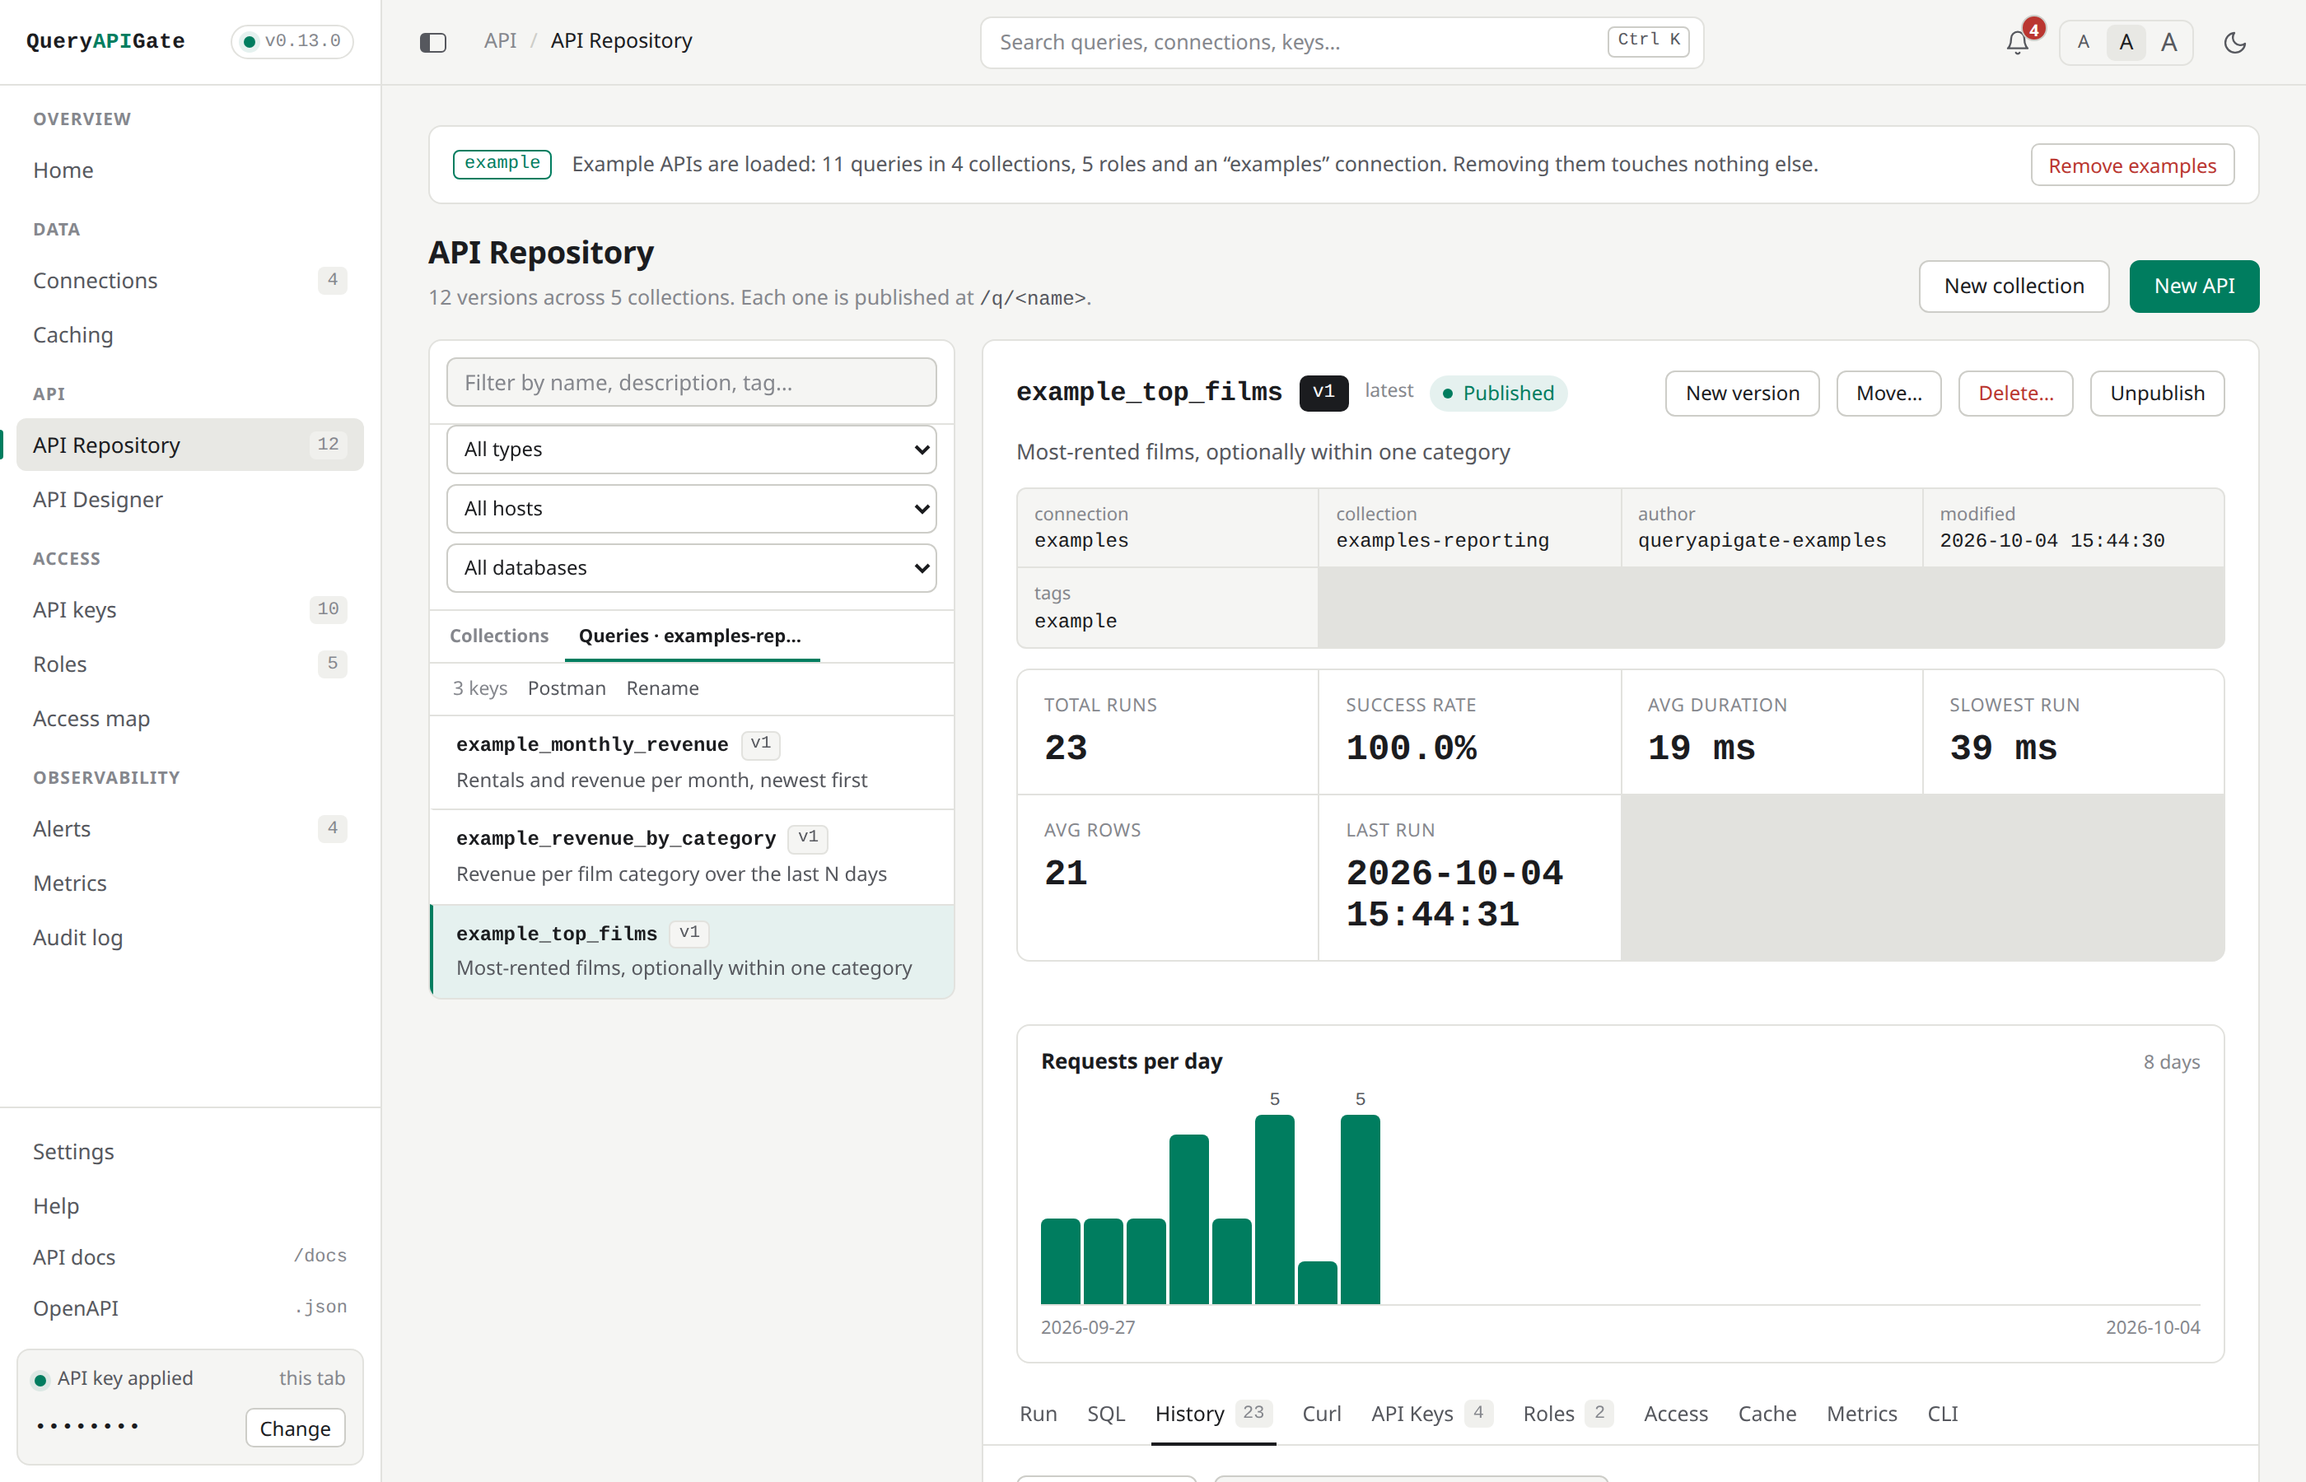
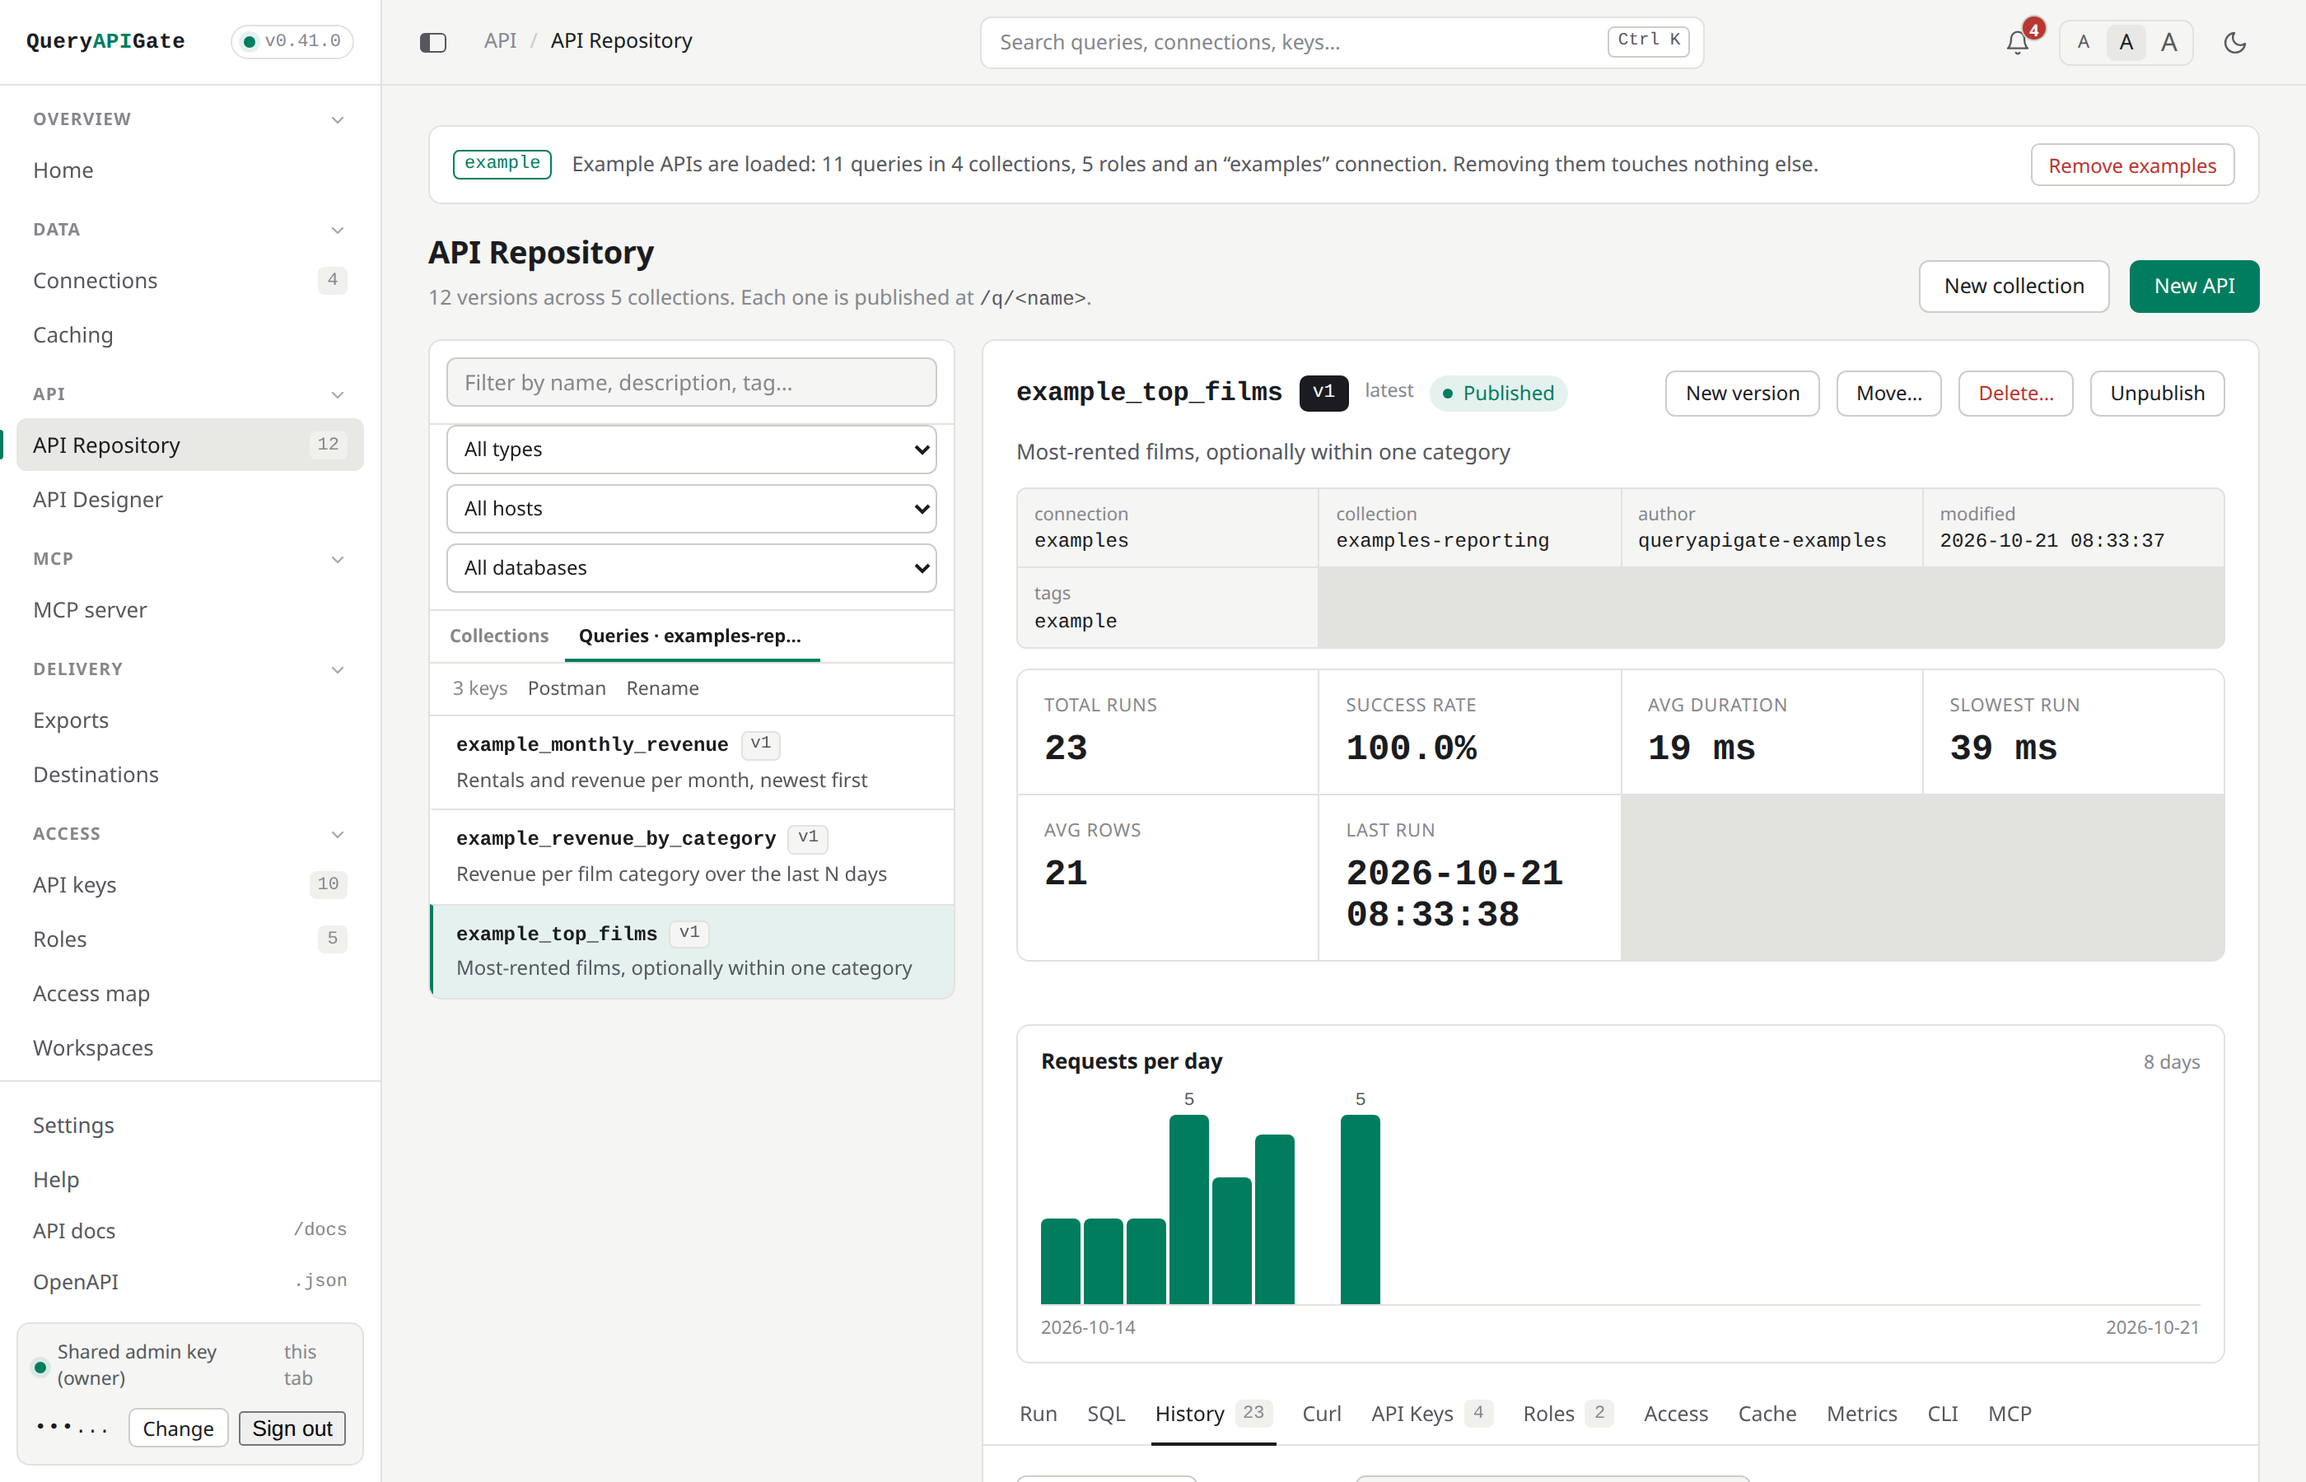
docs: position MCP as a pillar, and refresh the Console screenshots (#89)

diff --git a/documentation/SCREENSHOTS.md b/documentation/SCREENSHOTS.md
@@ -31,6 +31,15 @@ SQL editor, the demo video and the architecture.
 </table>
 
 <p align="center">
+  <a href="https://raw.githubusercontent.com/AnanthaRajuC/QueryAPIGate/main/documentation/screenshots/mcp.png">
+    <img src="https://raw.githubusercontent.com/AnanthaRajuC/QueryAPIGate/main/documentation/screenshots/mcp.png"
+         alt="The MCP server screen: your saved queries listed as tools an AI agent can call over MCP, each marked read-only with its parameters and description and a 30-day MCP-activity column; above the list, the connect-a-client config snippet with the MCP server URL and X-API-Key header, and a reachability check" width="820">
+  </a>
+  <br>
+  <sub>MCP server: your saved queries as governed tools for AI agents - read-only by default, with the connect snippet and a reachability check, the same identity, masking and audit as every other caller.</sub>
+</p>
+
+<p align="center">
   <a href="https://raw.githubusercontent.com/AnanthaRajuC/QueryAPIGate/main/documentation/screenshots/workspaces.png">
     <img src="https://raw.githubusercontent.com/AnanthaRajuC/QueryAPIGate/main/documentation/screenshots/workspaces.png"
          alt="The Workspaces screen (experimental): three workspaces - catalogue, default (this tab's) and payments - with their descriptions, member counts and Work here, edit and remove actions; below, the members of payments, bea as owner and dmitri as developer, each role changeable, and a form to add a member. The sidebar's workspace switcher sits under the wordmark" width="820">
@@ -43,7 +52,7 @@ SQL editor, the demo video and the architecture.
 <tr>
 <td width="25%">
 <a href="https://raw.githubusercontent.com/AnanthaRajuC/QueryAPIGate/main/documentation/screenshots/connections.png">
-<img src="https://raw.githubusercontent.com/AnanthaRajuC/QueryAPIGate/main/documentation/screenshots/connections.png" alt="Connections screen with All/Active/Inactive/Deleted tabs, listing ClickHouse, MySQL, PostgreSQL and SQLite connections with their status, each connection's live usage (queries run, failures, average latency), and Query, edit and delete actions">
+<img src="https://raw.githubusercontent.com/AnanthaRajuC/QueryAPIGate/main/documentation/screenshots/connections.png" alt="Connections screen with All/Active/Inactive/Deleted tabs, listing ClickHouse, MySQL, PostgreSQL and SQLite connections with their status, each connection's live usage (queries run, failures, average latency), a 30-day activity sparkline per connection, and Query, edit and delete actions">
 </a>
 <br><sub>Manage connections across every supported database, with live usage per connection</sub>
 </td>
@@ -55,13 +64,13 @@ SQL editor, the demo video and the architecture.
 </td>
 <td width="25%">
 <a href="https://raw.githubusercontent.com/AnanthaRajuC/QueryAPIGate/main/documentation/screenshots/api-keys.png">
-<img src="https://raw.githubusercontent.com/AnanthaRajuC/QueryAPIGate/main/documentation/screenshots/api-keys.png" alt="API keys screen showing keys created from roles and scoped to a collection (shown as a dashed name/ tag), an expiring partner key, per-key rate limits, and each key's last-used time and live usage">
+<img src="https://raw.githubusercontent.com/AnanthaRajuC/QueryAPIGate/main/documentation/screenshots/api-keys.png" alt="API keys screen showing keys created from roles and scoped to a collection (shown as a dashed name/ tag), an expiring partner key, per-key rate limits, each key's last-used time and live usage, and a 30-day activity sparkline per key">
 </a>
 <br><sub>Per-key permissions: connections, specific saved queries, expiry, rate limits - and what each key has actually done</sub>
 </td>
 <td width="25%">
 <a href="https://raw.githubusercontent.com/AnanthaRajuC/QueryAPIGate/main/documentation/screenshots/roles.png">
-<img src="https://raw.githubusercontent.com/AnanthaRajuC/QueryAPIGate/main/documentation/screenshots/roles.png" alt="Roles screen listing reusable permission templates - connections, read/write access, rate limit and IP allowlisting - with a New key from this shortcut">
+<img src="https://raw.githubusercontent.com/AnanthaRajuC/QueryAPIGate/main/documentation/screenshots/roles.png" alt="Roles screen listing reusable permission templates - connections, read/write access, rate limit and IP allowlisting - with a 30-day activity sparkline for the keys created from each role and a New key from this shortcut">
 </a>
 <br><sub>Named roles: a reusable grant template, copied onto a key once at creation</sub>
 </td>
@@ -101,7 +110,7 @@ SQL editor, the demo video and the architecture.
 </td>
 <td width="50%">
 <a href="https://raw.githubusercontent.com/AnanthaRajuC/QueryAPIGate/main/documentation/screenshots/caching.png">
-<img src="https://raw.githubusercontent.com/AnanthaRajuC/QueryAPIGate/main/documentation/screenshots/caching.png" alt="Caching screen: response cache backend, entry count, hit rate, hits and misses, and the list of saved queries with a cache_ttl set">
+<img src="https://raw.githubusercontent.com/AnanthaRajuC/QueryAPIGate/main/documentation/screenshots/caching.png" alt="Caching screen: response cache backend, entry count, hit rate, hits and misses, and the list of saved queries with a cache_ttl set, each with a 30-day activity sparkline">
 </a>
 <br><sub>Caching: live hit rate for the response cache backing every saved query's <code>cache_ttl</code></sub>
 </td>

diff --git a/README.md b/README.md
@@ -9,7 +9,7 @@
 [![OpenSSF Scorecard](https://api.scorecard.dev/projects/github.com/AnanthaRajuC/QueryAPIGate/badge)](https://scorecard.dev/viewer/?uri=github.com/AnanthaRajuC/QueryAPIGate)
 [![SLSA 2](https://slsa.dev/images/gh-badge-level2.svg)](https://github.com/AnanthaRajuC/QueryAPIGate/blob/main/SECURITY.md#slsa-level)
 
-### Turn SQL queries into secure, governed REST APIs.
+### Turn SQL into secure, governed REST APIs - and MCP tools for AI agents.
 
 [**Full documentation**](https://AnanthaRajuC.github.io/QueryAPIGate/)
 
@@ -88,6 +88,11 @@ backend service written around each query. QueryAPIGate makes the query itself t
 a versioned endpoint with typed parameters, governed by who may call it, how often and what they may see - and the same
 query is an MCP tool for AI agents, a live event stream and a scheduled export.
 
+That MCP surface is a reason in itself: it's how you let an AI agent query production data without handing it a
+database connection. The agent sees only governed tools, ad-hoc SQL over MCP is always read-only, writes wait for a
+person's approval, and the same masking, limits and audit apply - the limits live in the gateway, where no prompt can
+talk its way around them. One governed core, two front doors that matter most: REST for your apps, MCP for your agents.
+
 It doesn't replace an application backend; it removes the boilerplate when the requirement is "expose this query
 safely". Use cases, how it compares to PostgREST, Hasura and others, and the thinking behind it:
 [why QueryAPIGate](https://github.com/AnanthaRajuC/QueryAPIGate/blob/main/documentation/WHY.md).
@@ -98,14 +103,15 @@ safely". Use cases, how it compares to PostgREST, Hasura and others, and the thi
   injection-safe parameters, drafts and publishing, run history.
 - **[Scoped API keys, roles and collections](https://github.com/AnanthaRajuC/QueryAPIGate/blob/main/documentation/API.md#authentication-and-permissions)** - per
   connection, per query or per collection; expiry, IP allow-lists, rate limits, quotas, table allow-lists.
+- **[A governed MCP server for AI agents](https://github.com/AnanthaRajuC/QueryAPIGate/blob/main/documentation/MCP.md)** - saved queries as self-describing tools,
+  read-only ad-hoc SQL, masking-aware schema discovery, OAuth sign-in, and write tools that wait for a person's
+  approval - the same grants, masking and audit as every other caller.
 - **[Named administrators and SSO](https://github.com/AnanthaRajuC/QueryAPIGate/blob/main/documentation/API.md#administrators-and-admin-roles)** - admin roles and
   tokens, Console sign-in through your identity provider, signed-in users' JWTs.
 - **[Workspaces](https://github.com/AnanthaRajuC/QueryAPIGate/blob/main/documentation/API.md#workspaces)** (experimental) - several teams on one server,
   each running its own connections, queries and keys, and administering nothing of another's.
 - **[Column masking](https://github.com/AnanthaRajuC/QueryAPIGate/blob/main/documentation/API.md#column-masking)** - hash, mask or drop what a caller mustn't see, traced
   through the SQL to the source column.
-- **[An MCP server for AI agents](https://github.com/AnanthaRajuC/QueryAPIGate/blob/main/documentation/MCP.md)** - saved queries as tools, OAuth sign-in, write tools that
-  wait for a person's approval.
 - **[Eight database types, and files](https://github.com/AnanthaRajuC/QueryAPIGate/blob/main/documentation/DATABASE_CONNECTION_CONFIGURATION.md#support-matrix)** -
   PostgreSQL, MySQL, SQLite, DuckDB, ClickHouse and MongoDB; H2 and JDBC; Parquet, CSV and JSON on S3, GCS, R2 or disk.
 - **[Eight output formats, and streaming](https://github.com/AnanthaRajuC/QueryAPIGate/blob/main/documentation/API.md#streaming-exports)** - JSON, NDJSON, XML, YAML, CSV,

diff --git a/documentation/FEATURES.md b/documentation/FEATURES.md
@@ -67,6 +67,30 @@ API Consumer
 This lets an organization hand an external client a key that can only ever reach one named query - never
 arbitrary SQL and never a whole connection - while internal callers keep broader, connection-level access.
 
+## MCP server for AI agents
+
+The same saved queries are also tools an AI agent can call over MCP (the Model Context Protocol), served by a
+dedicated process (`queryapigate mcp`). It is the same governed core as REST, so an agent gets the same identity,
+grants, column masking, limits and audit as any app - enforced in the gateway, never asked of the model. It is how
+you let an agent query production data without handing it a database connection.
+
+- **Saved queries as self-describing tools.** Each published query is an MCP tool carrying its parameters, their
+  types, descriptions and an example, and the tables it reads - so an agent sees what each argument means, not just a
+  name. A query can be hidden from MCP (`mcp: false`) while it keeps serving over REST.
+- **Read-only by default; writes with approval.** The ad-hoc `execute_sql`, `list_tables` and `describe_table` tools
+  are forced read-only regardless of the key's own write grant. Agent writes are held as requests and run only once a
+  person approves them, with exactly the arguments shown (ADR 0008).
+- **Masking-aware metadata.** `describe_table` and schema discovery honour column masking - a masked or dropped
+  column is flagged, never shown as readable - so an agent can't even learn that hidden data exists.
+- **Standard OAuth.** The MCP server is an OAuth 2.0 protected resource (RFC 9728): an agent signs in through your
+  identity provider, and the token's audience is bound to the MCP server's own URL, so a token issued for it can't be
+  replayed against REST or the database.
+- **Every call recorded.** MCP runs land in the same run history, per-key metrics and tamper-evident audit log as
+  every other caller.
+
+The MCP server's own reference - tools, transport, configuration - is [MCP server](MCP.md); to connect a client, see
+[Let an AI agent call your saved queries via MCP](https://github.com/AnanthaRajuC/QueryAPIGate/blob/main/how-to/24-let-an-agent-call-your-queries-via-mcp.md).
+
 ## Saved, versioned queries
 
 A saved query bundles SQL, name, description, parameters, author, version, permissions and (optionally) cache

diff --git a/LANDING.md b/LANDING.md
@@ -1,6 +1,6 @@
 # QueryAPIGate
 
-### Turn SQL queries into secure, governed REST APIs.
+### Turn SQL into secure, governed REST APIs - and MCP tools for AI agents.
 
 <div style="position:relative;padding-bottom:56.25%;height:0;overflow:hidden;max-width:100%;margin-bottom:1.2em">
 <iframe src="https://www.youtube-nocookie.com/embed/WWImFj4m95o" title="QueryAPIGate: demo" style="position:absolute;top:0;left:0;width:100%;height:100%;border:0" allow="accelerometer; encrypted-media; picture-in-picture" allowfullscreen loading="lazy"></iframe>
@@ -14,7 +14,11 @@ or Parquet. Save a query once and it becomes a versioned endpoint
 with typed, injection-safe parameters and run history - without writing a controller, a repository layer,
 pagination, auth or serialization boilerplate for it.
 
-Write SQL. Configure the query. Apply access controls. Get an API.
+The same saved query is also a tool an AI agent can call over MCP - so an agent reaches your data through the exact
+same governance as any app: read-only by default, column-masked, rate-limited and audited, enforced in the gateway
+where no prompt can override it.
+
+Write SQL. Configure the query. Apply access controls. Get an API - and an MCP tool.
 
 ## See it in one request
 
@@ -51,6 +55,9 @@ guide](documentation/INSTALLATION_AND_SETUP.md); with Docker, `docker compose up
   allow-lists, rate limiting, IP allowlisting, key expiry, and named administrators with roles, so the audit log
   says who changed what - see [Authentication and permissions](documentation/API.md#authentication-and-permissions)
   and [Administrators](documentation/API.md#administrators-and-admin-roles).
+- **A governed MCP server for AI agents.** The same saved queries become MCP tools, and ad-hoc SQL over MCP is always
+  read-only - so an AI agent gets the same identity, grants, column masking and audit as any app, enforced in the
+  gateway and not asked of the model; writes wait for a person's approval. See [the MCP server](documentation/MCP.md).
 - **Read-only by default.** A single-statement SQL guard blocks writes and multi-statement injection unless
   a connection or key explicitly opts in, narrowed further to specific write operations if needed.
 - **Handles small and huge results the same way.** Paginated JSON/CSV/XML/YAML/XLSX/Parquet for typical results,
